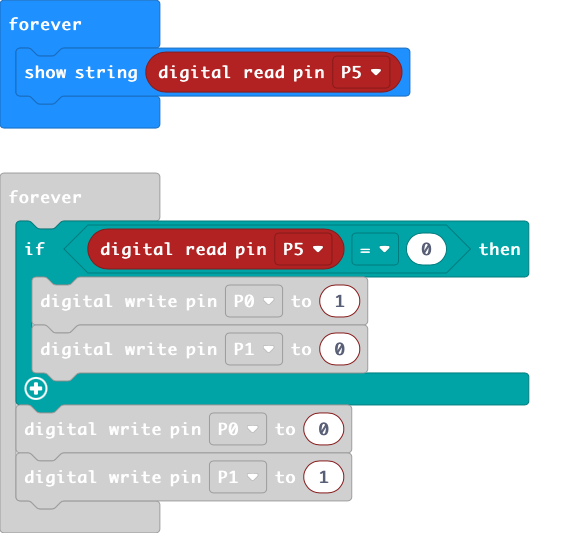
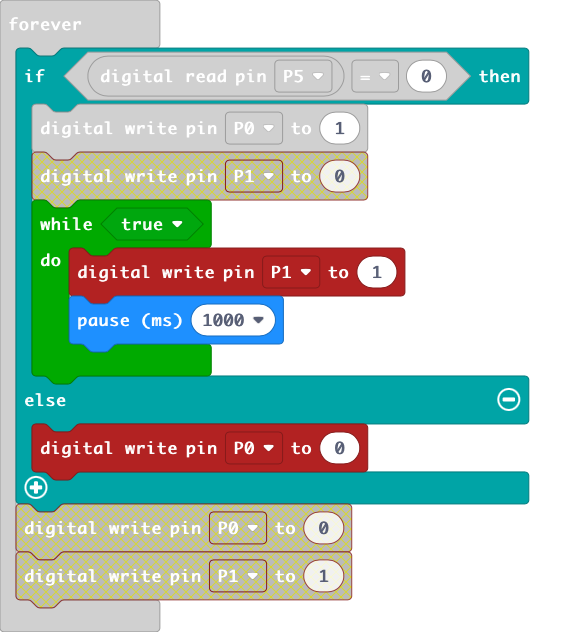
Update main.blocks, main.ts

diff --git a/main.ts b/main.ts
@@ -4,8 +4,11 @@ basic.forever(function () {
 basic.forever(function () {
     if (pins.digitalReadPin(DigitalPin.P5) == 0) {
         pins.digitalWritePin(DigitalPin.P0, 1)
-        pins.digitalWritePin(DigitalPin.P1, 0)
+        while (true) {
+            pins.digitalWritePin(DigitalPin.P1, 1)
+            basic.pause(1000)
+        }
+    } else {
+        pins.digitalWritePin(DigitalPin.P0, 0)
     }
-    pins.digitalWritePin(DigitalPin.P0, 0)
-    pins.digitalWritePin(DigitalPin.P1, 1)
 })
